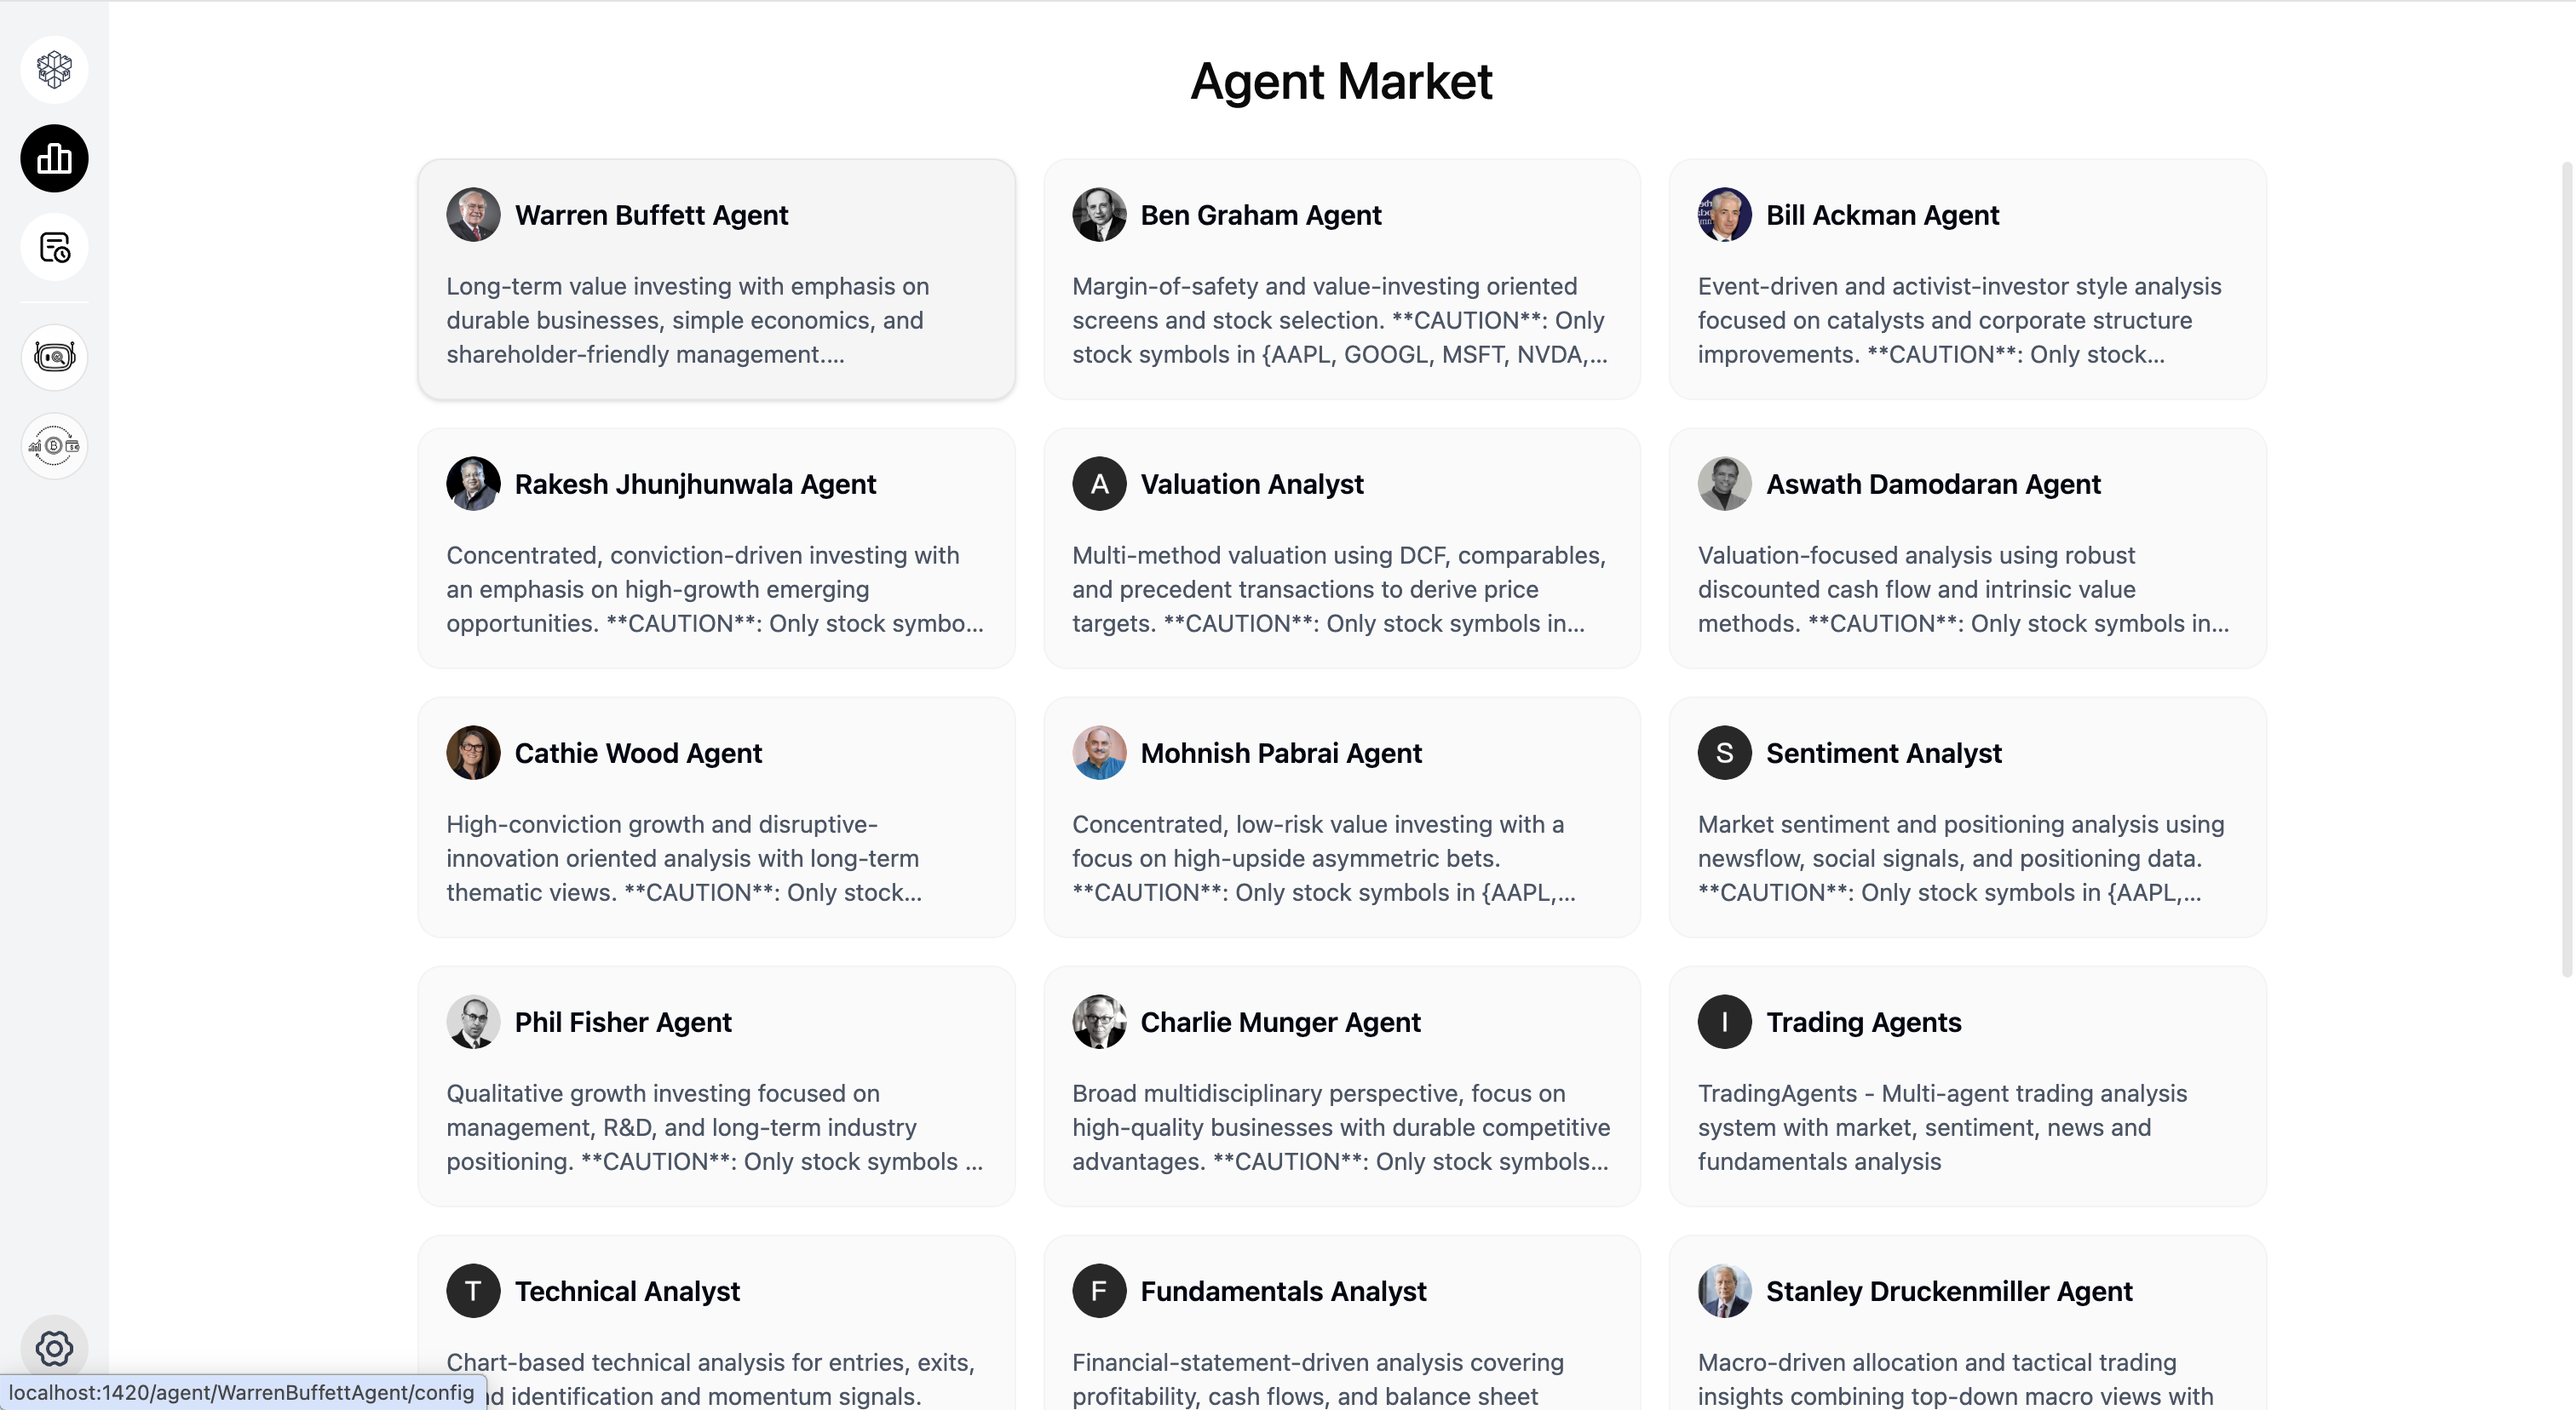
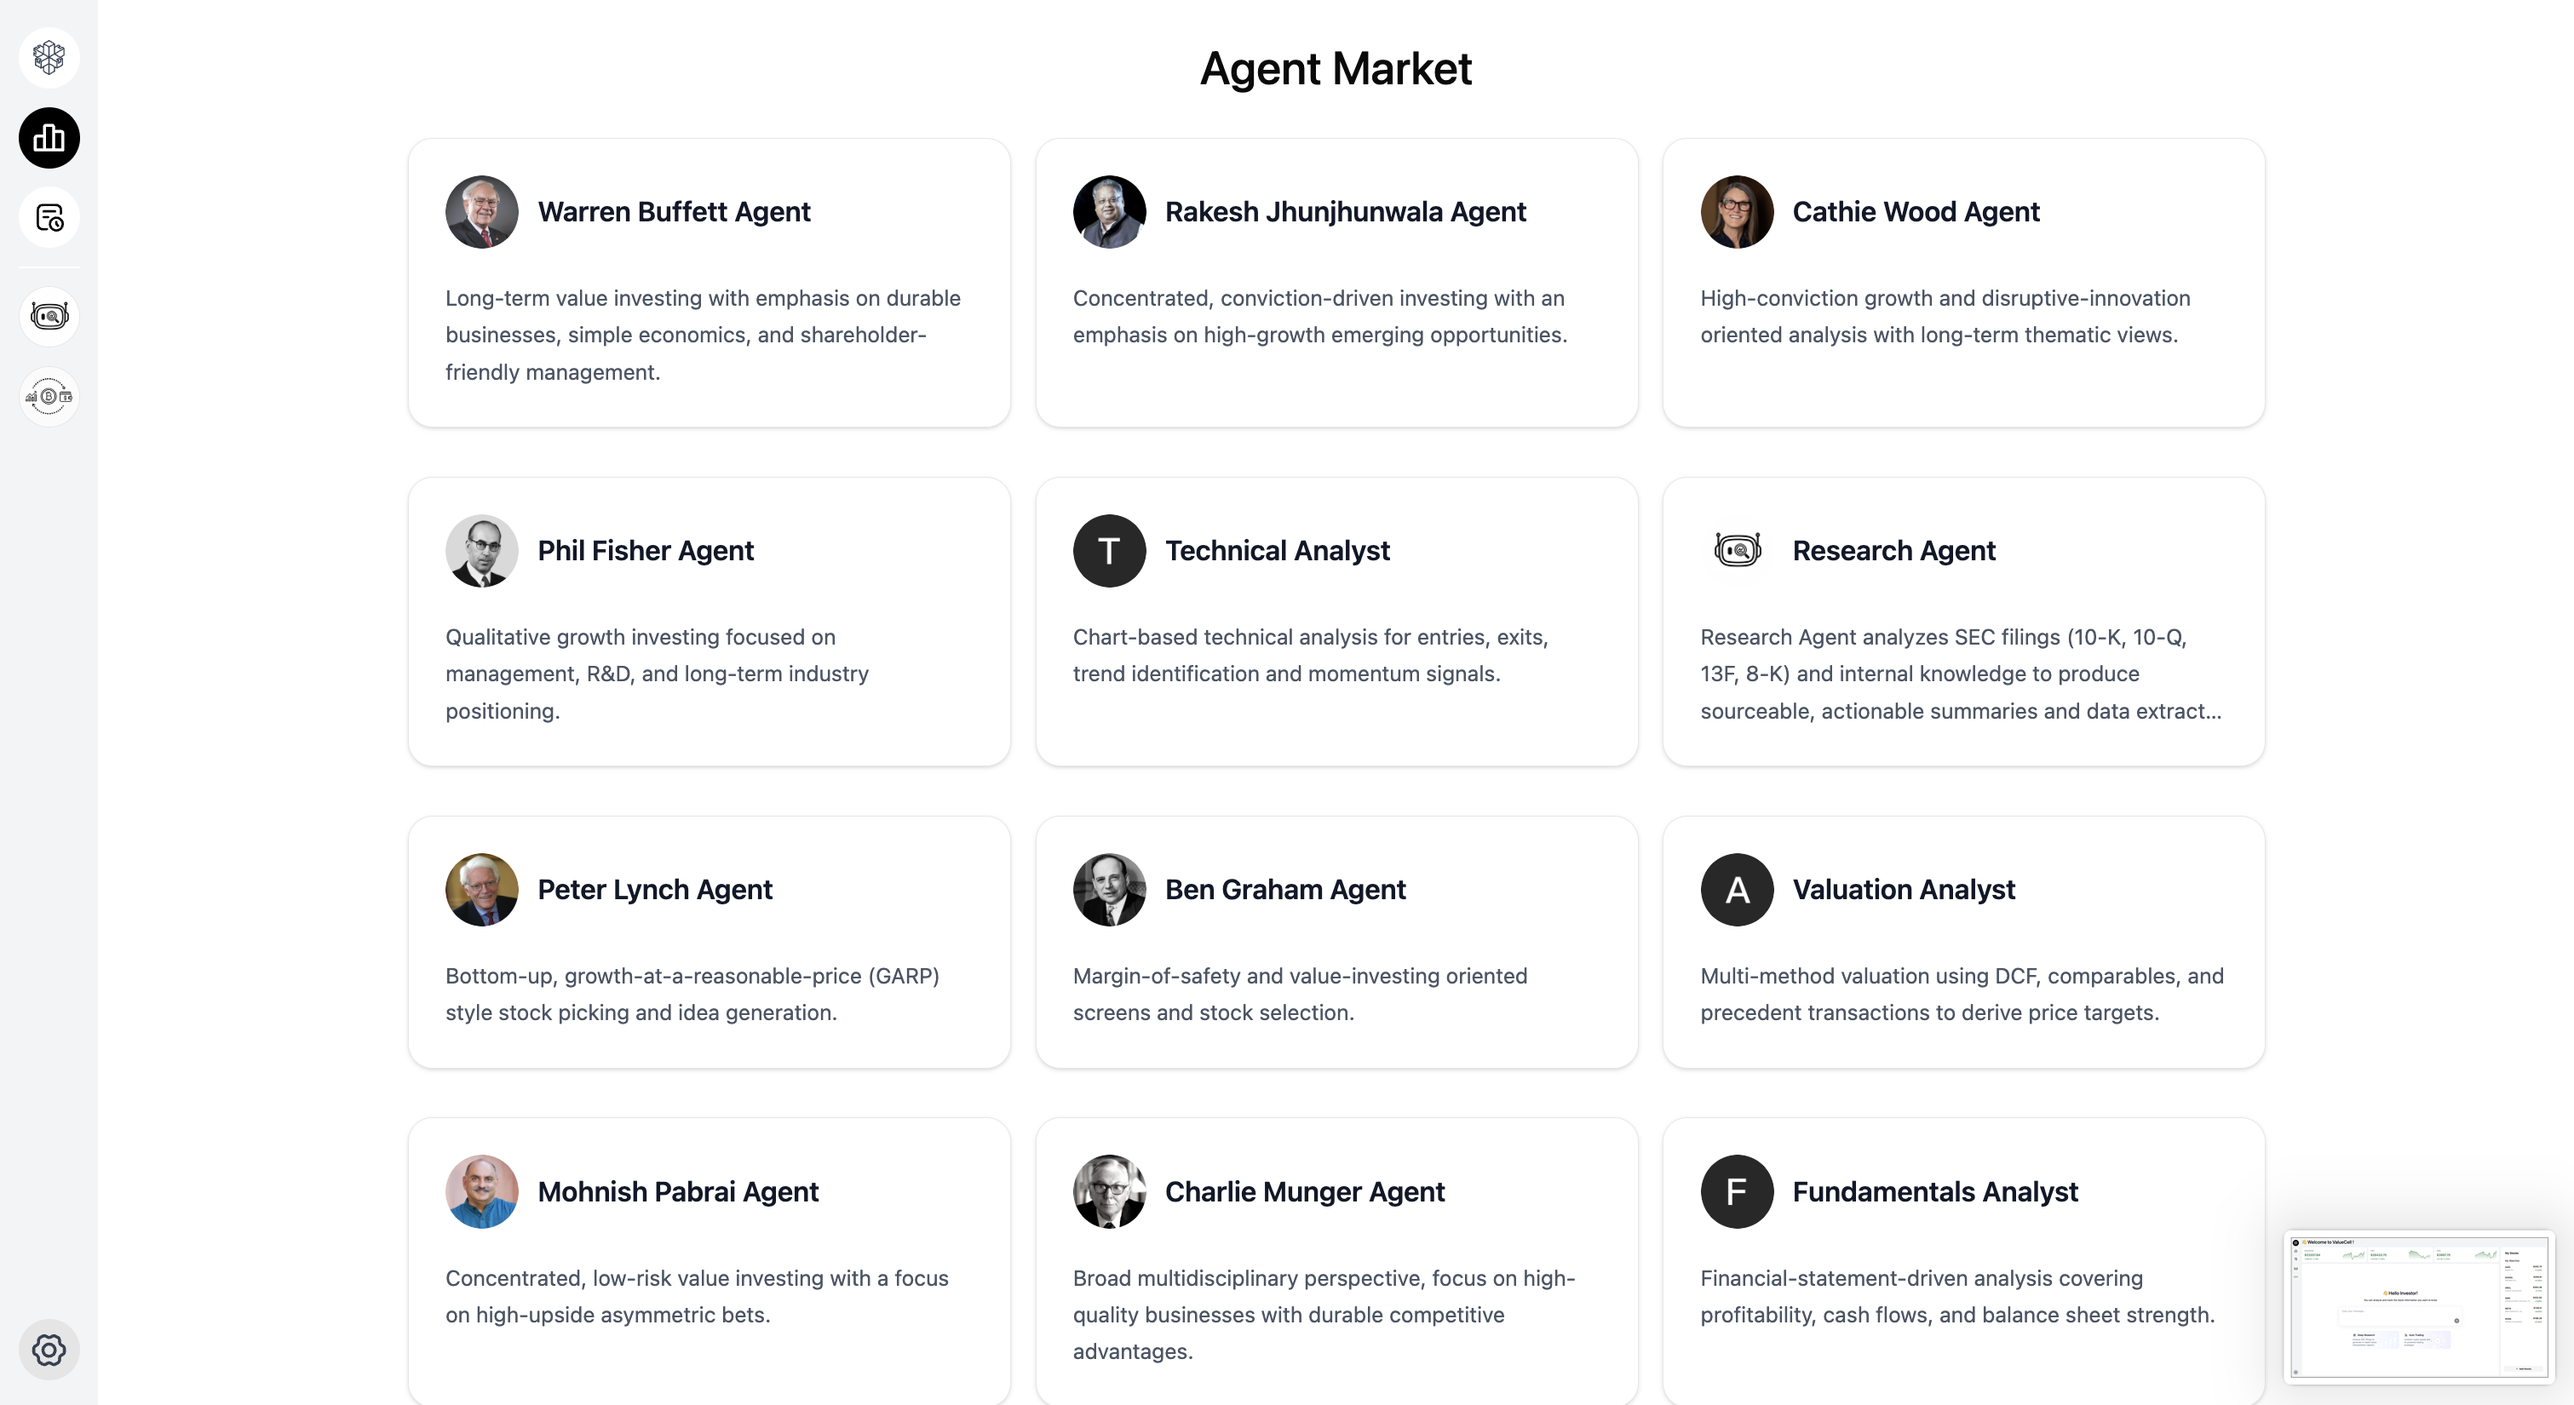
Updated the readme section description

diff --git a/README.md b/README.md
@@ -46,6 +46,12 @@ It provides a team of TOP investment Agents to help manage your portfolio.
   <img src="assets/product/agent_welcome.png" style="width: 100%; height: auto;">
 </p>
 
+<p align="center">
+  <img src="assets/product/superagent.png" style="width: 100%; height: auto;">
+</p>
+<p align="center">
+  <img src="assets/product/Auto Trading Agent.png" style="width: 100%; height: auto;">
+</p>
 # Key Features
 
 <p align="center">
@@ -54,9 +60,10 @@ It provides a team of TOP investment Agents to help manage your portfolio.
 
 
 ## Multi-Agent System
+- **DeepResearch Agent**: Automatically retrieve and analyze SEC filings to generate accurate data insights and interpretable summaries
+- **Auto Trading Agent**: multiple crypto assets and AI-powered trading strategies
 - **Trading Agents**: Agents work for market analysis, sentiment analysis, news analysis, and fundamentals analysis 
 - **AI-Hedge-Fund**: Agents collaborate to provide comprehensive financial insights
-- **SEC Agent**: Provides real-time updates from SEC 
 - **Others**: More agents are in planning...
 
 ## Flexible Integrations
